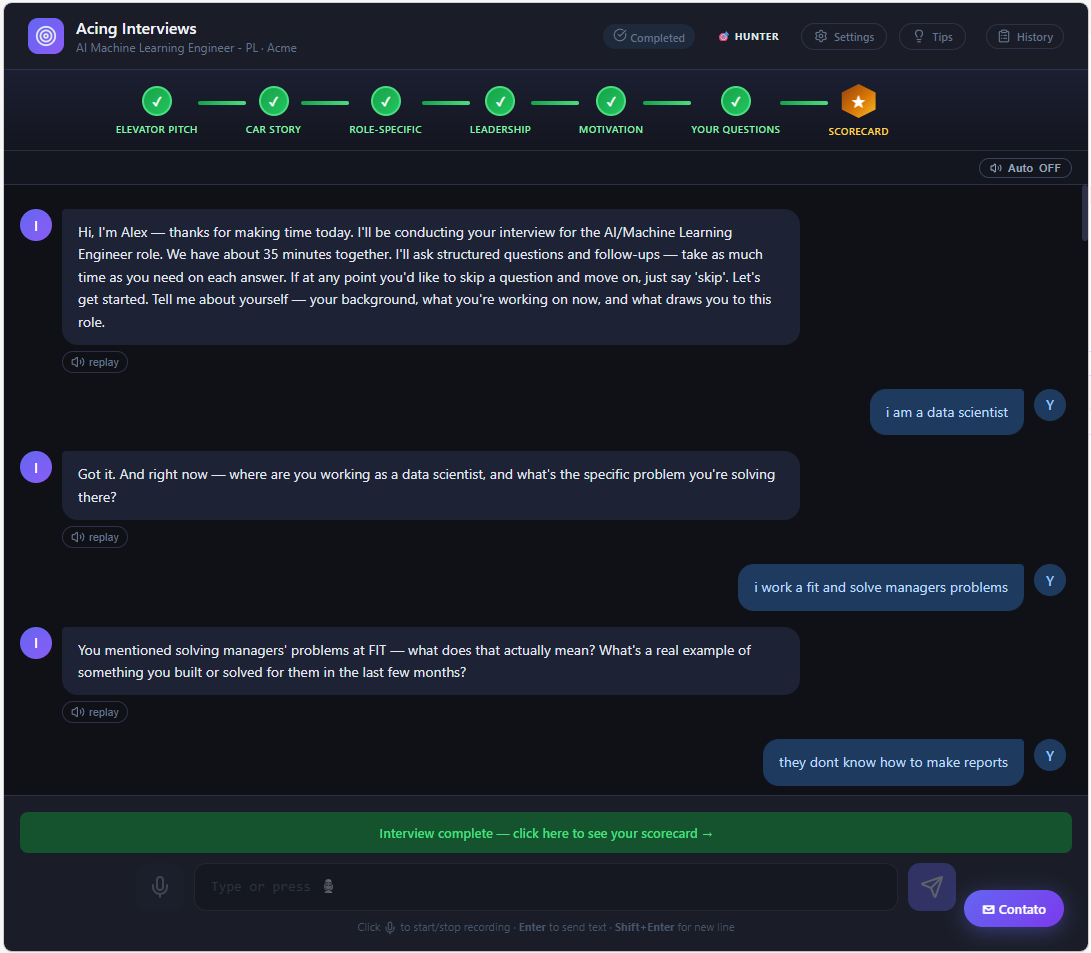
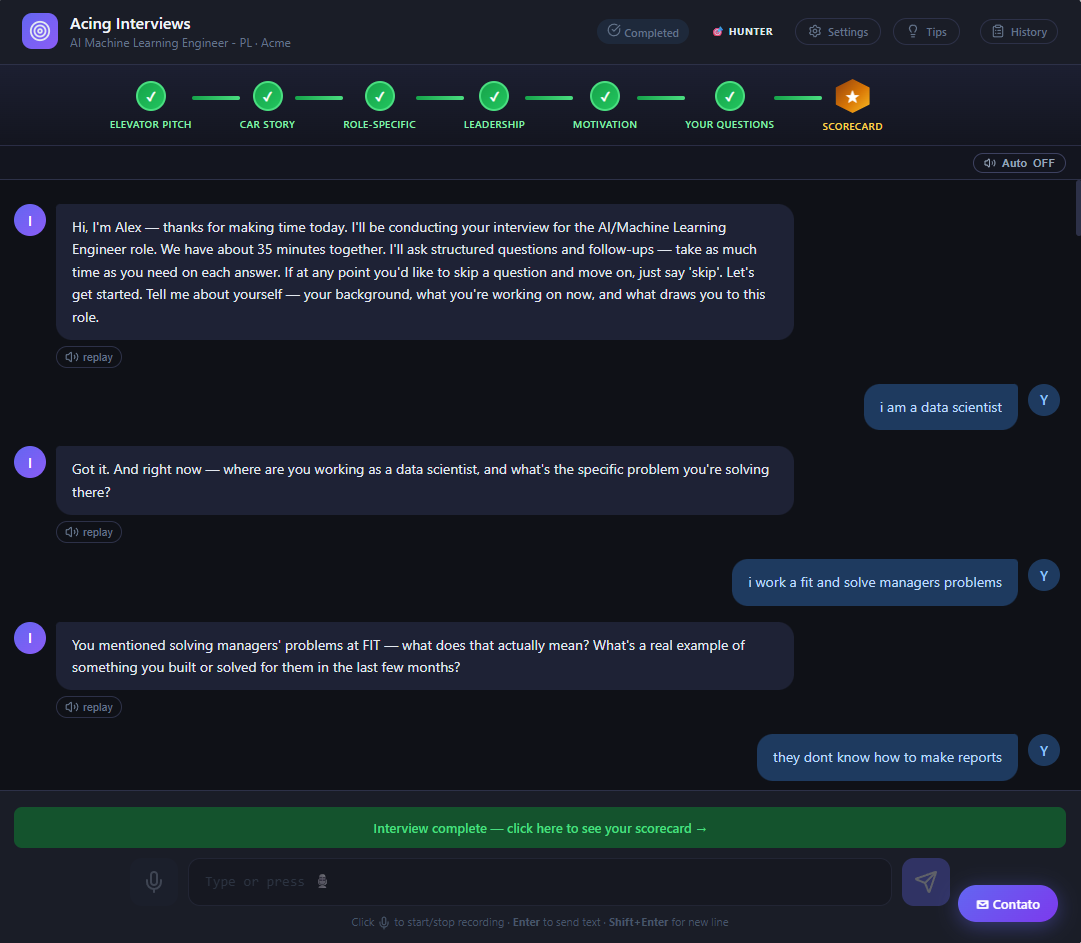
ok

Changed region(s): [[0.0, 0.0, 1.0, 1.0], [0.6105, 0.492, 0.7021, 0.5228]]

diff --git a/simulador-entrevista/static/index.html b/simulador-entrevista/static/index.html
@@ -243,7 +243,7 @@
       background: rgba(16, 185, 129, 0.05);
       border: 1px solid var(--status-success-border);
       border-radius: var(--radius-xl);
-      padding: 32px 40px;
+      padding: 20px 32px;
       display: flex;
       gap: 24px;
       align-items: flex-start;
@@ -730,7 +730,7 @@
       <a href="/demo_interview.html" class="preview-card">
         <div class="preview-card-label">
           <i data-lucide="message-circle" style="width:14px;height:14px;"></i>
-          See a live interview session →
+          <span data-i18n="landing.tour.previewInterview">See a live interview session →</span>
         </div>
         <div class="preview-card-img">
           <img src="/assets/interview.png" alt="Mock interview session" loading="lazy">
@@ -739,7 +739,7 @@
       <a href="/demo-scorecard.html" class="preview-card">
         <div class="preview-card-label">
           <i data-lucide="clipboard-check" style="width:14px;height:14px;"></i>
-          See a real scorecard →
+          <span data-i18n="landing.tour.previewScorecard">See a real scorecard →</span>
         </div>
         <div class="preview-card-img">
           <img src="/assets/score_card.png" alt="Scorecard example" loading="lazy">
@@ -749,7 +749,7 @@
   </div>
 
   <!-- Gate callout -->
-  <div class="section" style="padding-bottom:0">
+  <div class="section" style="padding-top:32px;padding-bottom:0">
     <div class="gate-callout">
       <div class="gate-icon">
         <i data-lucide="traffic-cone" style="width:40px;height:40px;"></i>
@@ -762,7 +762,7 @@
   </div>
 
   <!-- How to start — 3 steps -->
-  <div class="section" style="padding-bottom: 0;">
+  <div class="section" style="padding-top: 32px; padding-bottom: 0;">
     <div class="howto-block">
       <div class="badge badge-primary mb-4" data-i18n="landing.howto.label">How it works</div>
       <h2 class="section-title" style="margin-top:16px;" data-i18n="landing.howto.title">Built around your resume and the actual job</h2>
